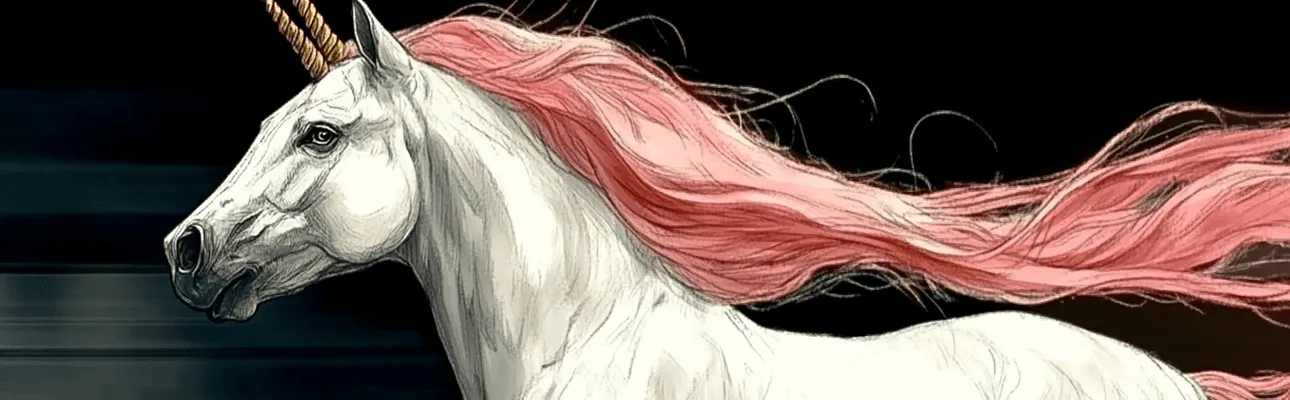
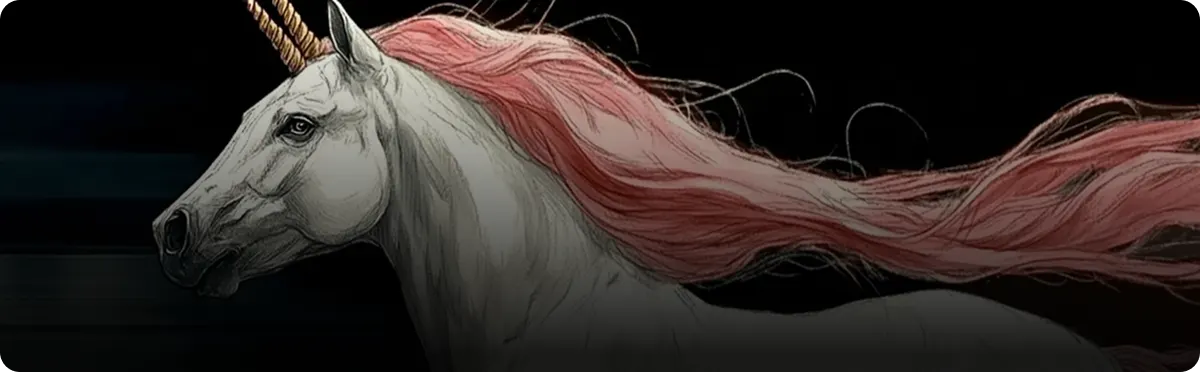
dashboard-styling-fixes

diff --git a/frontend/book-eilen/src/styles/_4_components/_5_home_carousel.scss b/frontend/book-eilen/src/styles/_4_components/_5_home_carousel.scss
@@ -2,88 +2,94 @@
 // ### Styles -> Components -> HomeCarousel
 //-------------------------------------------------------------------------------/
 
-.be-home-carousel {
-    text-align: center;
-    width: 1300px;
-    height: 350px;
-    overflow: hidden;
-    margin-bottom: 40px;
+.dashboard-page {
+    padding-top: 58px;
+    padding-bottom: 113px;
 
-    .slick-slider {
-        button::after {
-            width: 20px;
-            height: 20px;
-        }
+    .be-home-carousel {
+        text-align: center;
+        width: 100%;
+        height: 100%;
+        overflow: hidden;
+        margin-bottom: 40px;
 
-        .slick-next {
-            right: 10px;
-        }
-
-        .slick-dots {
-            li {
-                width: 35px;
-                cursor: pointer;
+        .slick-slider {
+            button::after {
+                width: 20px;
+                height: 20px;
             }
 
-            .slick-active {
-                width: 24px !important;
+            .slick-next {
+                right: 10px;
             }
-        }
 
-        .slick-list .slick-slide {
-            display: flex;
-            justify-content: center;
+            .slick-dots {
+                li {
+                    width: 35px;
+                    cursor: pointer;
+                }
 
-            > div {
-                overflow: hidden;
-
-                ::before {
-                    content: "";
-                    position: absolute;
-                    top: 0;
-                    left: 0;
-                    width: 100%;
-                    height: 100%;
-                    z-index: 1;
-                    background: linear-gradient(180deg, rgba(0, 0, 0, 0) 50%, rgba(0, 0, 0, 0.95) 160%);
+                .slick-active {
+                    width: 24px !important;
                 }
             }
 
+            .slick-list .slick-slide {
+                display: flex;
+                justify-content: center;
+                overflow: hidden;
+
+                img {
+                    width: 100%;
+                    height: 100%;
+                    border-radius: 20px;
+                }
+            }
+        }
+    }
+
+    .bottom-section {
+        div:last-child {
+            margin-bottom: 0 !important;
+        }
+        .carousel {
+            margin-bottom: 40px;
+            gap: 11px;
+
+            .col-xl-2 {
+                width: 18.667%;
+
+                img {
+                    height: 290px;
+                }
+            }
+
+            .book-card {
+                display: inline-block;
+                border-radius: 20px;
+                overflow: hidden;
+                height: 290px !important;
+
+                img {
+                    width: 100%;
+                    height: 290px !important;
+                    height: auto;
+                    border-radius: 20px;
+                    object-fit: cover;
+                }
+            }
+        }
+    }
+
+    @media (min-width: 1400px) {
+        .be-home-carousel {
+            width: 1300px;
+            height: 350px;
+
             img {
                 width: 1200px;
-                border-radius: 20px;
                 height: 350px;
             }
         }
-    }
-}
-
-.bottom-section {
-    .carousel {
-        margin-bottom: 40px;
-        gap: 20px;
-
-        .col-2 {
-            width: 18.667%;
-
-            img {
-                height: 250px;
-            }
-        }
-    }
-}
-
-.book-card {
-    display: inline-block;
-    border-radius: 10px;
-    overflow: hidden;
-    height: 250px;
-
-
-    img {
-        width: 100%;
-        height: auto;
-        border-radius: 20px;
-        object-fit: cover;
     }
 }

diff --git a/frontend/book-eilen/app/pages/dashboard/page.tsx b/frontend/book-eilen/app/pages/dashboard/page.tsx
@@ -27,61 +27,63 @@ const DashboardPage = () => {
 
     return (
         <main className="container-md">
+
+            <div className="dashboard-page">
             <h1>Dashboard</h1>
                 <BeHomeCarousel />
-
             <section className="bottom-section">
                 <h2>Featured</h2>
                 <div className="carousel row">
-                    <div className="book-card col-2">
+                    <div className="book-card col-lg-3 col-xl-2">
                         <Image src={featureCarouselImage} alt="Featured Book" />
                     </div>
-                    <div className="book-card col-2">
+                    <div className="book-card col-lg-3 col-xl-2">
                         <Image src={featureCarouselSecond} alt="Featured Book" />
                     </div>
-                    <div className="book-card col-2">
+                    <div className="book-card col-lg-3 col-xl-2">
                         <Image src={featureCarouselThird} alt="Featured Book" />
                     </div>
-                    <div className="book-card col-2">
+                    <div className="book-card col-lg-3 col-xl-2">
                         <Image src={featureCarouselFourth} alt="Featured Book" />
                     </div>
-                    <div className="book-card col-2">
+                    <div className="book-card col-lg-3 col-xl-2">
                         <Image src={featureCarouselFifth} alt="Featured Book" />
                     </div>
                 </div>
 
                 <h2>Top picks</h2>
-                <div className="carousel col-2">
+                <div className="carousel col-lg-3 col-xl-2">
                     <div className="book-card">
                         <Image src={sampleCarouselImage} alt="Top Pick Book" />
                     </div>
                 </div>
 
                 <h2>Trending</h2>
-                <div className="carousel col-2">
+                <div className="carousel col-lg-3 col-xl-2">
                     <div className="book-card">
                         <Image src={sampleCarouselImage} alt="Trending Book" />
                     </div>
                 </div>
                 <h2>New Arrivals</h2>
-                <div className="carousel col-2">
+                <div className="carousel col-lg-3 col-xl-2">
                     <div className="book-card">
                         <Image src={sampleCarouselImage} alt="New Arrival Book" />
                     </div>
                 </div>
                 <h2>Most Popular</h2>
-                <div className="carousel col-2">
+                <div className="carousel col-lg-3 col-xl-2">
                     <div className="book-card">
                         <Image src={sampleCarouselImage} alt="Most Popular Book" />
                     </div>
                 </div>
                 <h2>Recommendations</h2>
-                <div className="carousel col-2">
+                <div className="carousel col-lg-3 col-xl-2">
                     <div className="book-card">
                         <Image src={sampleCarouselImage} alt="Recommended Book" />
                     </div>
                 </div>
             </section>
+            </div>
         </main>
     );
 };
